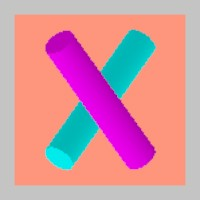
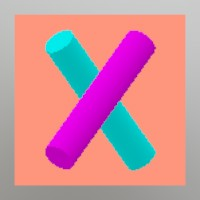
fixing test errors.

diff --git a/src/render_list.rs b/src/render_list.rs
@@ -56,7 +56,6 @@ use std::{
 ///            Rect::new(0.0, 0.0, 1.0, 1.0),
 ///            None, None,
 ///        );
-///
 ///     screen.draw(token, &render_mat, Matrix::IDENTITY, None, None);
 /// );
 /// # sk::Sk::shutdown();
@@ -318,17 +317,18 @@ impl RenderList {
     /// let mut render_mat = Material::unlit().copy();
     /// render_mat.diffuse_tex(&render_tex);
     /// let screen = Mesh::screen_quad();
-    /// render_list.draw_now( &render_tex,
-    ///     transform_cam,
-    ///     perspective,
-    ///     Some(Color128::new(0.99, 0.3, 0.2, 0.5)),
-    ///     Some(RenderClear::Color),
-    ///     Rect::new(0.0, 0.0, 1.0, 1.0),
-    ///     Some(RenderLayer::AllThirdPerson), None,
-    /// );
-    ///
     /// filename_scr = "screenshots/render_list_add_mesh.jpeg";
     /// test_screenshot!( // !!!! Get a proper main loop !!!!
+    ///     if iter == 0 {
+    ///         render_list.draw_now( &render_tex,
+    ///             transform_cam,
+    ///             perspective,
+    ///             Some(Color128::new(0.99, 0.3, 0.2, 0.5)),
+    ///             Some(RenderClear::Color),
+    ///             Rect::new(0.0, 0.0, 1.0, 1.0),
+    ///             Some(RenderLayer::AllThirdPerson), None,
+    ///         );
+    ///     }
     ///     screen.draw(token, &render_mat, Matrix::IDENTITY, None, None);
     /// );
     /// # sk::Sk::shutdown();
@@ -395,17 +395,19 @@ impl RenderList {
     /// let mut render_mat = Material::unlit().copy();
     /// render_mat.diffuse_tex(&render_tex);
     /// let screen = Mesh::screen_quad();
-    /// render_list.draw_now( &render_tex,
-    ///     transform_cam,
-    ///     perspective,
-    ///     Some(Color128::new(0.0, 0.3, 0.2, 0.5)),
-    ///     Some(RenderClear::Color),
-    ///     Rect::new(0.0, 0.0, 1.0, 1.0),
-    ///     Some(RenderLayer::AllFirstPerson), None,
-    /// );
     ///
     /// filename_scr = "screenshots/render_list_add_model.jpeg";
     /// test_screenshot!( // !!!! Get a proper main loop !!!!
+    ///     if iter == 0 {
+    ///         render_list.draw_now( &render_tex,
+    ///             transform_cam,
+    ///             perspective,
+    ///             Some(Color128::new(0.0, 0.3, 0.2, 0.5)),
+    ///             Some(RenderClear::Color),
+    ///             Rect::new(0.0, 0.0, 1.0, 1.0),
+    ///             Some(RenderLayer::AllFirstPerson), None,
+    ///         );    
+    ///     }
     ///     screen.draw(token, &render_mat, Matrix::IDENTITY, None, None);
     /// );
     /// # sk::Sk::shutdown();

diff --git a/src/material.rs b/src/material.rs
@@ -1882,14 +1882,15 @@ impl<'a> ParamInfos<'a> {
     /// ```
     /// # stereokit_rust::test_init_sk!(); // !!!! Get a proper way to initialize sk !!!!
     /// use stereokit_rust::material::{Material, MaterialParam};
-    /// 
+    ///
     /// # {
     /// let material = Material::from_file("shaders/brick_pbr.hlsl.sks", None).unwrap();
     /// let mut param_infos = material.get_all_param_info();
     /// let new_factors = vec![302,50,20,10];
     /// param_infos.set_int("size_factors", new_factors.as_slice());
     ///
-    /// assert_eq!( param_infos.get_int_vector("size_factors", MaterialParam::Int4).unwrap(), new_factors);
+    /// assert_eq!( param_infos.get_int_vector("size_factors",
+    ///             MaterialParam::Int4).unwrap(), new_factors);
     /// # } sk::Sk::shutdown();
     /// ```
     pub fn set_int<S: AsRef<str>>(&mut self, name: S, values: &[i32]) -> &mut Self {
@@ -1931,12 +1932,15 @@ impl<'a> ParamInfos<'a> {
     ///
     /// let mut material = Material::from_file("shaders/brick_pbr.hlsl.sks", None).unwrap();
     /// let mut param_infos = material.get_all_param_info();
-    /// assert_eq!( param_infos.get_uint_vector("size_factors", MaterialParam::UInt4).unwrap(), vec![300, 4294967196, 50, 25]);
+    /// assert_eq!( param_infos.get_uint_vector("u_size_factors",
+    ///             MaterialParam::UInt4).unwrap(), vec![300, 100, 50, 25]);
     /// let new_factors = vec![303,502,201,100];
-    /// param_infos.set_uint("size_factors", new_factors.as_slice());
+    /// param_infos.set_uint("u_size_factors", new_factors.as_slice());
     ///
-    /// assert!( param_infos.has_param("size_factors", MaterialParam::UInt4),"size_factors should be here");
-    /// assert_eq!( param_infos.get_uint_vector("size_factors", MaterialParam::UInt4).unwrap(), new_factors);
+    /// assert!( param_infos.has_param("u_size_factors",
+    ///          MaterialParam::UInt4),"size_factors should be here");
+    /// assert_eq!( param_infos.get_uint_vector("u_size_factors",
+    ///             MaterialParam::UInt4).unwrap(), new_factors);
     /// # sk::Sk::shutdown();
     /// ```
     pub fn set_uint<S: AsRef<str>>(&mut self, name: S, values: &[u32]) -> &mut Self {

diff --git a/src/tools/xr_comp_layers.rs b/src/tools/xr_comp_layers.rs
@@ -26,7 +26,6 @@ use openxr_sys::{
 use std::ptr::null_mut;
 
 #[derive(Debug)]
-
 /// `XrCompLayers` provides low-level OpenXR composition layer functionality, while `SwapchainSk`
 /// offers a high-level wrapper for creating and managing OpenXR swapchains with StereoKit integration.
 ///
@@ -408,21 +407,23 @@ impl XrCompLayers {
 ///         None
 ///     );
 ///    
-///     // Render to swapchain
-///     if let Ok(_) = swapchain.acquire_image(None) {
-///         if let Some(render_target) = swapchain.get_render_target() {
-///             render_list.draw_now(
-///                 render_target,
-///                 Matrix::look_at(Vec3::angle_xy(Time::get_totalf() * 90.0, 0.0), Vec3::ZERO, None),
-///                 Matrix::orthographic(1.0, 1.0, 0.1, 10.0),
-///                 None,
-///                 Some(RenderClear::All),
-///                 Rect::new(0.0, 0.0, 1.0, 1.0),
-///                 None, None,
-///             );
+///     test_steps!( // !!!! Get a proper main loop !!!!
+///         // Render to swapchain
+///         if let Ok(_) = swapchain.acquire_image(None) {
+///             if let Some(render_target) = swapchain.get_render_target() {
+///                 render_list.draw_now(
+///                     render_target,
+///                     Matrix::look_at(Vec3::angle_xy(Time::get_totalf() * 90.0, 0.0), Vec3::ZERO, None),
+///                     Matrix::orthographic(1.0, 1.0, 0.1, 10.0),
+///                     None,
+///                     Some(RenderClear::All),
+///                     Rect::new(0.0, 0.0, 1.0, 1.0),
+///                     None, None,
+///                 );
+///             }
+///             swapchain.release_image().expect("Failed to release image");
 ///         }
-///         swapchain.release_image().expect("Failed to release image");
-///     }
+///     );
 ///    
 ///     // Clean up
 ///     swapchain.destroy();

diff --git a/src/maths.rs b/src/maths.rs
@@ -5294,9 +5294,7 @@ impl MulAssign<Vec3> for Bounds {
 ///
 /// let wall =   Plane::new (Vec3::X, 0.5);
 /// let wall_b = Plane::from_point( [-0.5, -1.1, -1.1].into(), Vec3::X);
-/// let wall_c = Plane::from_points([-0.5, -2.2, -2.2],
-///                                 [-0.5, -3.3, -3.3],
-///                                 [-0.5, -4.4, -14.4]);
+/// let wall_c = Plane::from_point( [-0.5, -2.2, -2.2].into(), Vec3::X);
 ///
 /// assert_eq!(wall.closest(Vec3::Y), Vec3 {x:-0.5, y:1.0, z:0.0});
 /// assert_eq!(wall_b.closest(Vec3::Y), Vec3 {x:-0.5, y:1.0, z:0.0});
@@ -5377,7 +5375,7 @@ impl Plane {
     /// <https://stereokit.net/Pages/StereoKit/Plane/Plane.html>
     ///
     /// ## Examples
-    /// ```
+    /// ``` ignore
     /// use stereokit_rust::maths::{Plane,Vec3};
     /// let ground = Plane::from_points([1.0, 1.5, 0.0],
     ///                                 [0.0, 1.5, 1.0],
@@ -5430,7 +5428,7 @@ impl Plane {
     /// let plane = Plane{normal : Vec3::X , d: -4.0};
     /// let closest = plane.closest(Vec3::ZERO);
     /// assert_eq!(closest , (Vec3::X * 4.0));
-    /// let plane = Plane::from_points(Vec3::X , Vec3::Z, Vec3::Y );
+    /// let plane = Plane::from_point(Vec3::X, Vec3::ONE / 3.0_f32.sqrt());
     /// assert_eq!(plane, Plane{normal : Vec3::ONE / (3.0_f32.sqrt()), d:-1.0/3.0_f32.sqrt()} );
     /// let closest = plane.closest(Vec3::ZERO);
     /// assert_eq!(closest , Vec3::new(0.3333333,0.3333333,0.3333333));

diff --git a/src/ui.rs b/src/ui.rs
@@ -2340,7 +2340,7 @@ impl Ui {
     /// Returns true if the hand has an active or focused UI element. False otherwise.
     /// see also [`ui_is_interacting`]
     /// ### Examples
-    /// ```no_run
+    /// ```ignore
     /// # stereokit_rust::test_init_sk!(); // !!!! Get a proper way to initialize sk !!!!
     /// use stereokit_rust::{ui::Ui, system::Handed};
     ///
@@ -2408,7 +2408,7 @@ impl Ui {
     /// became inactive” this frame.
     /// see also [`ui_last_element_hand_active`] [`Ui::get_last_element_active`]
     /// ### Examples
-    /// ```
+    /// ``` ignore
     /// # stereokit_rust::test_init_sk!(); // !!!! Get a proper way to initialize sk !!!!
     /// use stereokit_rust::{ui::Ui, maths::{Vec2, Vec3, Pose}, system::{Handed, BtnState}};
     ///
@@ -2445,7 +2445,7 @@ impl Ui {
     /// became focused” this frame.
     /// see also [`ui_last_element_hand_focused`] [`Ui::get_last_element_focused`]
     /// ### Examples
-    /// ```
+    /// ``` ignore
     /// # stereokit_rust::test_init_sk!(); // !!!! Get a proper way to initialize sk !!!!
     /// use stereokit_rust::{ui::Ui, maths::{Vec2, Vec3, Pose}, system::{Handed, BtnState}};
     ///

diff --git a/src/sk.rs b/src/sk.rs
@@ -1513,8 +1513,8 @@ impl Sk {
     ///     // Quit the app after a single step.
     /// );
     ///
-    /// // 3 steps later we are out
-    /// assert_eq!(iter, 3);
+    /// // 2 steps later we are out
+    /// assert_eq!(iter, 2);
     /// # sk::Sk::shutdown();
     /// ```
     pub fn execute_on_main<F: FnMut() + 'static>(&mut self, action: F) {
@@ -1553,8 +1553,8 @@ impl Sk {
     ///     }
     /// );
     ///
-    /// // 6 steps later we are out
-    /// assert_eq!(iter, number_of_steps + 3);
+    /// // 5 steps later we are out
+    /// assert_eq!(iter, number_of_steps + 2);
     /// # sk::Sk::shutdown();
     /// ```
     pub fn send_event(&mut self, action: StepperAction) {
@@ -1590,8 +1590,8 @@ impl Sk {
     ///     }
     /// );
     ///
-    /// // 6 steps later we are out
-    /// assert_eq!(iter, number_of_steps + 3);
+    /// // 5 steps later we are out
+    /// assert_eq!(iter, number_of_steps + 2);
     /// # sk::Sk::shutdown();
     /// ```
     pub fn get_steppers_count(&self) -> usize {

diff --git a/src/system.rs b/src/system.rs
@@ -4737,10 +4737,12 @@ impl Renderer {
     /// ### Examples
     /// ```
     /// # stereokit_rust::test_init_sk!(); // !!!! Get a proper way to initialize sk !!!!
-    /// use stereokit_rust::{system::{Renderer, Assets}, tex::{Tex, TexType}};
+    /// use stereokit_rust::{system::{Renderer, Assets}, tex::{SHCubemap, TexType}};
     ///
-    /// let sky_tex = Tex::from_file("hdri/sky_dawn.jpeg", true, None)
-    ///                        .expect("sky_tex should be created");
+    /// let sky_cubemap = SHCubemap::from_cubemap("hdri/sky_dawn.hdr", true, 9999)
+    ///                        .expect("sky_cubemap should be created");
+    ///
+    /// let sky_tex = sky_cubemap.get().1;
     ///
     /// Assets::block_for_priority(i32::MAX);
     ///

diff --git a/src/tex.rs b/src/tex.rs
@@ -1654,7 +1654,7 @@ impl Tex {
     ///                      tex::{Tex, TexFormat, TexType}, mesh::Mesh, material::Material};
     ///
     /// let mut color_dots = [0.13f32; 16 * 16];
-    /// let mut tex = Tex::new(TexType::Image, TexFormat::R32, None);
+    /// let mut tex = Tex::new(TexType::Image, TexFormat::R32f, None);
     ///
     /// tex.set_colors_r32(16, 16, &color_dots);
     ///

diff --git a/src/framework/event_loop.rs b/src/framework/event_loop.rs
@@ -219,7 +219,9 @@ impl<'a> SkClosures<'a> {
         while let Some(mut action) = self.sk.actions.pop_front() {
             action();
         }
-        (self.on_step)(&mut self.sk, &self.token);
+        if self.sleeping != SleepPhase::Stopping {
+            (self.on_step)(&mut self.sk, &self.token);
+        }
 
         self.token.event_report.clear();
     }
